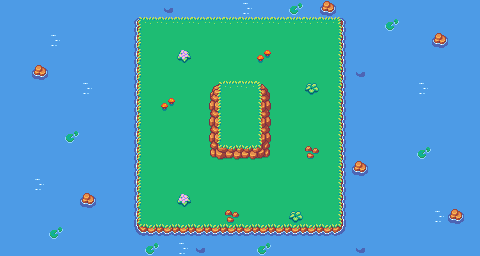
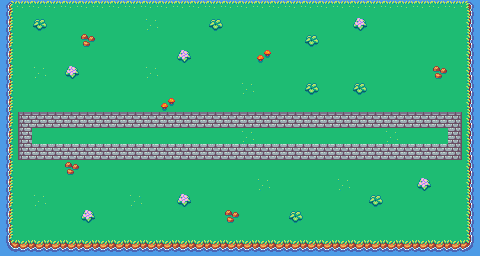
mesterværk færdigt

diff --git a/DesignPatternProjekt/GameWorld.cs b/DesignPatternProjekt/GameWorld.cs
@@ -18,6 +18,11 @@ namespace DesignPatternProjekt
         private List<UIComponent> uiComponents = new List<UIComponent>();
         private Fortress player;
         public bool gameStarted;
+        public bool gameEnded;
+        public static List<GameObject> LaserList = new List<GameObject>();
+        public static List<GameObject> LaserTempList = new List<GameObject>();
+        public static List<GameObject> EnemiesList = new List<GameObject>();
+        public Rectangle outerRec;
 
         public static GameWorld Instance
         {
@@ -46,14 +51,16 @@ namespace DesignPatternProjekt
         {
             _graphics = new(this) { PreferredBackBufferWidth = 1920, PreferredBackBufferHeight = 1080 };
             Content.RootDirectory = "Content";
-            _graphics.IsFullScreen = true;
+            //_graphics.IsFullScreen = true;
             IsMouseVisible = true;
+            outerRec = new Rectangle(835, 334, 1920, 300);
+
         }
 
         protected override void Initialize()
         {
             // TODO: Add your initialization logic here
-            
+
             GameObject map = new GameObject();
             map.AddComponent<Map>();
             map.AddComponent<SpriteRenderer>();
@@ -133,6 +140,26 @@ namespace DesignPatternProjekt
                     go.Update(gameTime);
                 }
 
+                LaserTempList = new List<GameObject>(LaserList);
+
+                foreach (var laser in LaserList)
+                {
+                    foreach (var enemy in EnemiesList)
+                    {
+                        float distance = Vector2.Distance(laser.Transform.Position, enemy.Transform.Position);
+
+                        if (distance <= 30)
+                        {
+                            enemy.Transform.Position = new Vector2(enemy.Transform.Position.X, -60);
+
+                            LaserTempList.Remove(laser);
+                            Destroy(laser);
+                        }
+                    }
+                }
+
+                LaserList = new List<GameObject>(LaserTempList);
+
                 player.Rotation();
 
             }
@@ -165,6 +192,13 @@ namespace DesignPatternProjekt
 
             }
 
+            if (gameEnded)
+            {
+                gameStarted = false;
+                
+                _spriteBatch.DrawString(font, "You lost, reopen program to try again.", new Vector2(500, 200), Color.Black);
+            }
+
             foreach (var uiComponent in uiComponents) {
                 uiComponent.Draw(gameTime, _spriteBatch);
             }
@@ -175,6 +209,7 @@ namespace DesignPatternProjekt
             base.Draw(gameTime);
 
         }
+
         private void Cleanup()
         {
             for (int i = 0; i < newGameObjects.Count; i++)
@@ -191,6 +226,7 @@ namespace DesignPatternProjekt
             destroyedGameObjects.Clear();
             newGameObjects.Clear();
         }
+
         public void Instantiate(GameObject go)
         {
             newGameObjects.Add(go);

diff --git a/DesignPatternProjekt/FactoryPatterns/EnemyFactory.cs b/DesignPatternProjekt/FactoryPatterns/EnemyFactory.cs
@@ -9,6 +9,7 @@ using System.Threading.Tasks;
 namespace DesignPatternProjekt.FactoryPatterns
 {
     public enum ENEMYTYPE { SLOW, FAST, STRONG }
+
     internal class EnemyFactory : Factory
     {
         private static EnemyFactory instance;
@@ -36,19 +37,21 @@ namespace DesignPatternProjekt.FactoryPatterns
 
             SpriteRenderer sr = go.AddComponent<SpriteRenderer>();
 
+            GameWorld.EnemiesList.Add(go);
+
             switch (type)
             {
                 case ENEMYTYPE.SLOW:
                     sr.SetSprite("Slowzombie");
-                    go.AddComponent<Enemy>(50f);
+                    go.AddComponent<Enemy>(15f);
                     break;
                 case ENEMYTYPE.FAST:
                     sr.SetSprite("Fastzombie");
-                    go.AddComponent<Enemy>(100f);
+                    go.AddComponent<Enemy>(25f);
                     break;
                 case ENEMYTYPE.STRONG:
                     sr.SetSprite("Strongzombie");
-                    go.AddComponent<Enemy>(150f);
+                    go.AddComponent<Enemy>(35f);
 
                     break;
             }
@@ -58,6 +61,8 @@ namespace DesignPatternProjekt.FactoryPatterns
         public override GameObject Create()
         {
             GameObject go = new GameObject();
+
+            GameWorld.EnemiesList.Add(go);
 
             SpriteRenderer sr = go.AddComponent<SpriteRenderer>();
             sr.SetSprite("enemyBlue2");

diff --git a/DesignPatternProjekt/ComponentPatterns/Fortress.cs b/DesignPatternProjekt/ComponentPatterns/Fortress.cs
@@ -13,6 +13,8 @@ namespace DesignPatternProjekt
         private float speed;
         private MouseState currentMouse;
         private float rotation;
+        public static List<GameObject> LaserList = new List<GameObject>();
+
         public Fortress(GameObject gameObject) : base(gameObject)
         {
         }
@@ -55,20 +57,10 @@ namespace DesignPatternProjekt
             GameObject.Transform.Rotation = rotation;
             Laser laserComponent = GameObject.GetComponent<Laser>() as Laser;
 
-
             if (laserComponent != null)
             {
                 laserComponent.UpdateVelocity();
             }
-
-            //Laser laserComponent = GameObject.GetComponent<Laser>() as Laser;
-
-
-            if (laserComponent != null)
-            {
-                laserComponent.UpdateVelocity();
-            }
-
         }
 
         bool canShoot = true;
@@ -79,6 +71,7 @@ namespace DesignPatternProjekt
                 canShoot = false;
                 lastShot = 0;
                 GameObject laser = LaserFactory.Instance.Create();
+                GameWorld.LaserList.Add(laser);
                 laser.Transform.Position = GameObject.Transform.Position;
                 laser.Transform.Rotation = GameObject.Transform.Rotation;
                 GameWorld.Instance.Instantiate(laser);

diff --git a/DesignPatternProjekt/ComponentPatterns/Laser.cs b/DesignPatternProjekt/ComponentPatterns/Laser.cs
@@ -13,19 +13,25 @@ namespace DesignPatternProjekt
 
         private Vector2 velocity;
 
+
         public Laser(GameObject gameObject) : base(gameObject)
         {
             this.speed = 500;
             UpdateVelocity();
+            
+
         }
         public override void Update(GameTime gameTime)
         {
             Move(gameTime);
             UpdateVelocity();
+            
         }
 
+        // Move the laser
         private void Move(GameTime gameTime)
         {
+            // Normalize the velocity
             if (velocity != Vector2.Zero)
             {
                 velocity.Normalize();
@@ -35,12 +41,14 @@ namespace DesignPatternProjekt
 
             GameObject.Transform.Translate(velocity * GameWorld.Instance.DeltaTime);
 
+            // Destroy the laser if it goes out of bounds
             if (GameObject.Transform.Position.Y < 0)
             {
                 GameWorld.Instance.Destroy(this.GameObject);
             }
         }
 
+        // Update the velocity of the laser
         public void UpdateVelocity()
         {
             float rotation = GameObject.Transform.Rotation;

diff --git a/DesignPatternProjekt/ComponentPatterns/Map.cs b/DesignPatternProjekt/ComponentPatterns/Map.cs
@@ -12,14 +12,14 @@ namespace DesignPatternProjekt.ComponentPatterns
     internal class Map : Component
     {
         public Rectangle outerRec;
-        public Rectangle innerRec;
+        //public Rectangle innerRec;
         public Texture2D recTexture;
 
         public Map(GameObject gameObject) : base(gameObject)
         {
             //this.graphicsDeviceManager = graphics;
-            outerRec = new Rectangle(560, 85, 800, 850);
-            innerRec = new Rectangle(835, 334, 250, 300);
+            outerRec = new Rectangle(835, 334, 1920, 300);
+            //innerRec = new Rectangle(835, 334, 250, 300);
         }
 
         public override void Awake()
@@ -50,7 +50,7 @@ namespace DesignPatternProjekt.ComponentPatterns
             {
                  spriteBatch.Draw(recTexture, outerRec, Color.White * 0.5f);
                      
-                 spriteBatch.Draw(recTexture, innerRec, Color.White * 0.5f);
+                 //spriteBatch.Draw(recTexture, innerRec, Color.White * 0.5f);
             }
         }
     }

diff --git a/DesignPatternProjekt/ComponentPatterns/Enemy.cs b/DesignPatternProjekt/ComponentPatterns/Enemy.cs
@@ -29,6 +29,11 @@ namespace DesignPatternProjekt.ComponentPatterns
             }
         }
 
+        public Rectangle GetBoundingBox()
+        {
+            return HitBox;
+        }
+
         public Enemy(GameObject gameObject, float speed) : base(gameObject)
         {
             this.speed = speed;
@@ -39,7 +44,15 @@ namespace DesignPatternProjekt.ComponentPatterns
 
         public override void Update(GameTime gameTime)
         {
-            Move();
+            if (GameObject.Transform.Position.Y >= 440)
+            {
+                GameWorld.Instance.gameStarted = false;
+                GameWorld.Instance.gameEnded = true;
+            }
+            else
+            {
+                Move();
+            }
         }
         Vector2 RandomPositionOutsideTopOfBounds()
         {
